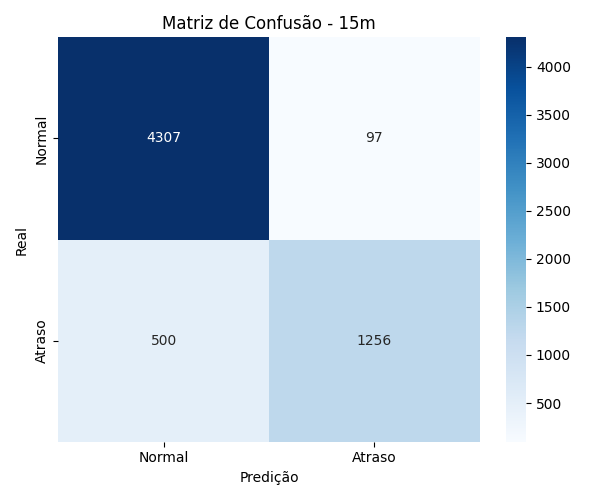
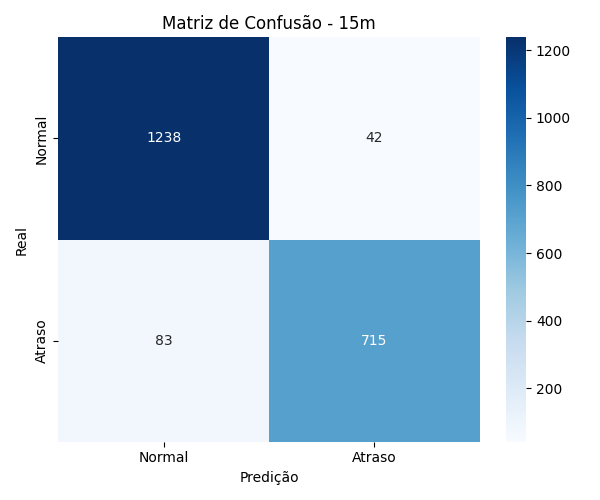
.

diff --git a/ml/plots/evaluation_report.md b/ml/plots/evaluation_report.md
@@ -3,54 +3,54 @@
 Este documento contém a análise de performance hold-out (últimos 20% dos dados historicos).
 
 ## Horizonte: 15m
-- **AUC-ROC**: 0.9386
+- **AUC-ROC**: 0.9834
 
 ### Relatório de Classificação:
 ```text
               precision    recall  f1-score   support
 
-           0       0.90      0.98      0.94      4404
-           1       0.93      0.72      0.81      1756
+           0       0.94      0.97      0.95      1280
+           1       0.94      0.90      0.92       798
 
-    accuracy                           0.90      6160
-   macro avg       0.91      0.85      0.87      6160
-weighted avg       0.91      0.90      0.90      6160
+    accuracy                           0.94      2078
+   macro avg       0.94      0.93      0.94      2078
+weighted avg       0.94      0.94      0.94      2078
 
 ```
 
 ---
 
 ## Horizonte: 30m
-- **AUC-ROC**: 0.9335
+- **AUC-ROC**: 0.9786
 
 ### Relatório de Classificação:
 ```text
               precision    recall  f1-score   support
 
-           0       0.89      0.96      0.93      4408
-           1       0.89      0.71      0.79      1752
+           0       0.93      0.95      0.94      1281
+           1       0.92      0.88      0.90       797
 
-    accuracy                           0.89      6160
-   macro avg       0.89      0.84      0.86      6160
-weighted avg       0.89      0.89      0.89      6160
+    accuracy                           0.92      2078
+   macro avg       0.92      0.92      0.92      2078
+weighted avg       0.92      0.92      0.92      2078
 
 ```
 
 ---
 
 ## Horizonte: 60m
-- **AUC-ROC**: 0.9320
+- **AUC-ROC**: 0.9809
 
 ### Relatório de Classificação:
 ```text
               precision    recall  f1-score   support
 
-           0       0.91      0.94      0.92      4419
-           1       0.84      0.75      0.79      1741
+           0       0.92      0.97      0.94      1275
+           1       0.95      0.86      0.90       803
 
-    accuracy                           0.89      6160
-   macro avg       0.87      0.85      0.86      6160
-weighted avg       0.89      0.89      0.89      6160
+    accuracy                           0.93      2078
+   macro avg       0.93      0.91      0.92      2078
+weighted avg       0.93      0.93      0.93      2078
 
 ```
 
